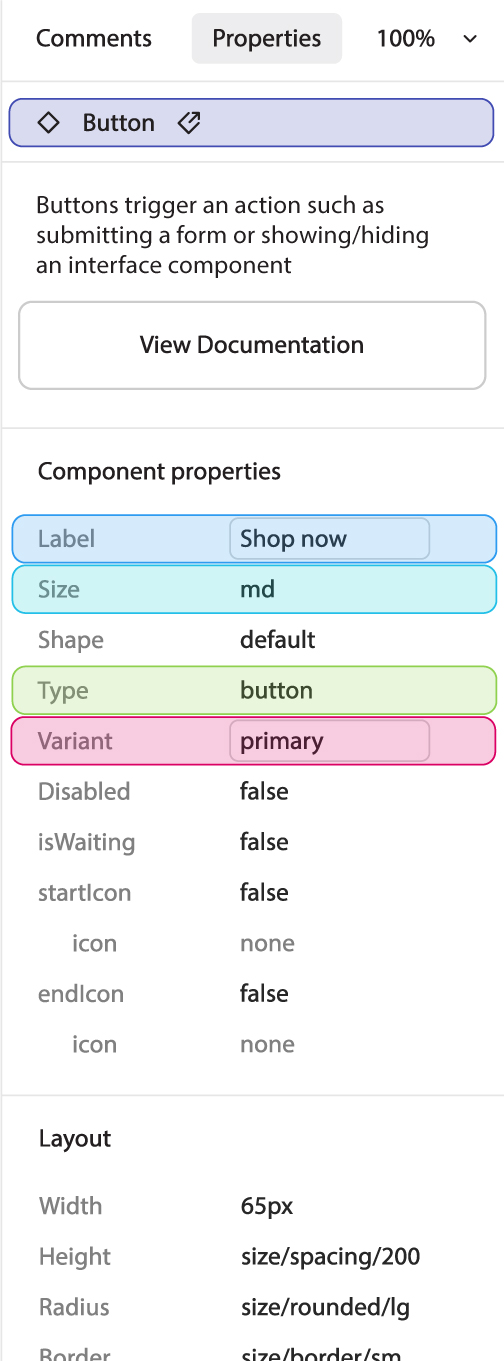
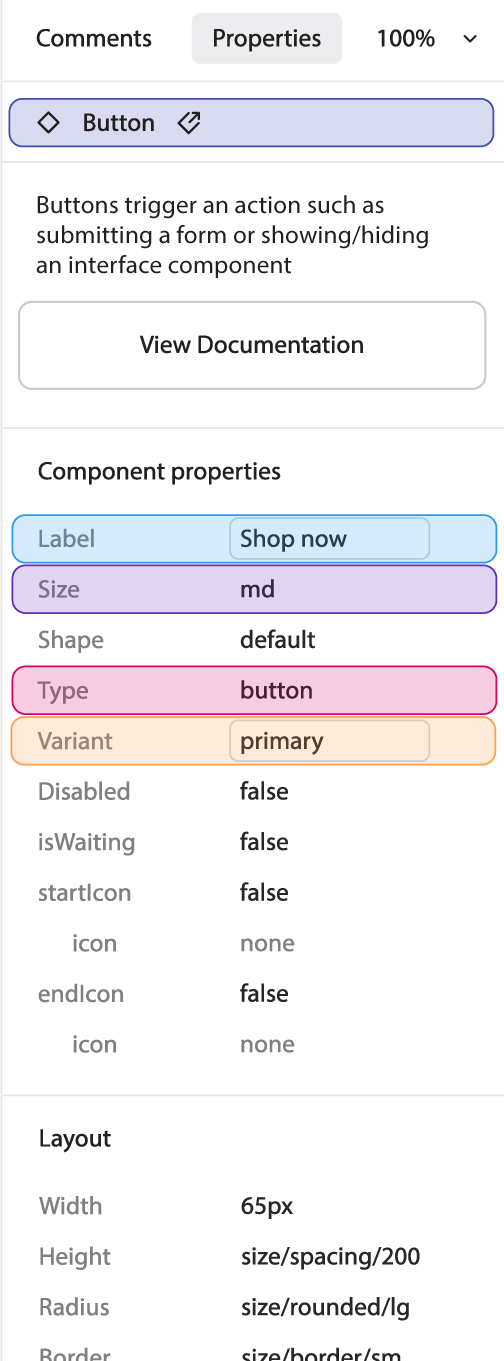
chore(web-dev): figma to code steps update colors in step 13

Changed region(s): [[0.0, 0.4012, 1.0, 0.5863]]

diff --git a/portfolio-pages/web-design/web-design-portfolio-figma-to-code.html b/portfolio-pages/web-design/web-design-portfolio-figma-to-code.html
@@ -2147,9 +2147,9 @@
                 <div class="lg-w-4/12">
                   <h3 class="fg-indigo mb-block-none">Button</h3>
                   <h4 class="fg-blue px-100 mt-block-50 mb-block-none">label: &lsquo;Shop now&rsquo;</h4>
-                  <h4 class="fg-aqua px-100 mt-block-50 mb-block-none">size: &lsquo;md&rsquo;</h4>
-                  <h4 class="fg-green px-100 mt-block-50 mb-block-none">type: &lsquo;button&rsquo;</h4>
-                  <h4 class="fg-magenta px-100 mt-block-50 mb-block-none">variant: &lsquo;primary&rsquo;</h4>
+                  <h4 class="fg-purple px-100 mt-block-50 mb-block-none">size: &lsquo;md&rsquo;</h4>
+                  <h4 class="fg-magenta px-100 mt-block-50 mb-block-none">type: &lsquo;button&rsquo;</h4>
+                  <h4 class="fg-amber px-100 mt-block-50 mb-block-none">variant: &lsquo;primary&rsquo;</h4>
                 </div>
               </div>
 
